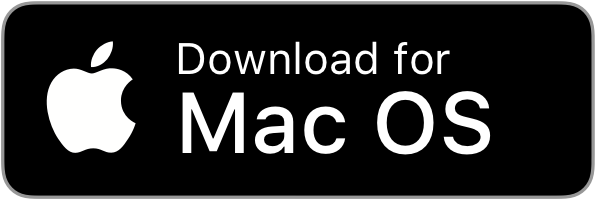
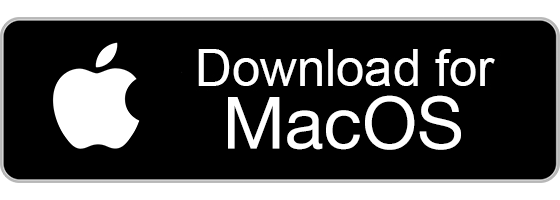
Add release urls from GH downloads

diff --git a/_includes/githubreleases.html b/_includes/githubreleases.html
@@ -7,21 +7,26 @@ $(function() {
     var apiURL = "https://api.github.com/repos/michaelmuenzer/gu-assistant/releases/latest";
 
     $.getJSON(apiURL, function(json) {
-
-        if (json.results && json.results.length) {
-
+        console.log(json)
+        if (json && json.name) {
+            var releaseName = json.name
             console.info("Release download urls loaded from Github API.");
-            console.log(json)
-            var assets = json.assets;
 
             // Set Mac download link if it is not set manually in _config.yml
             var $macLink = $(".macLink");
             if ($.trim($macLink.attr('href')).length == 0) {
-                $($macLink).attr("href", macLink.trackViewUrl);
+                //https://github.com/michaelmuenzer/gu-assistant/releases/download/v0.0.20/GU-Assistant-0.0.20.dmg
+                var downloadUrl = 'https://github.com/michaelmuenzer/gu-assistant/releases/download/v' + releaseName + '/GU-Assistant-' + releaseName + '.dmg'
+                $($macLink).attr("href", downloadUrl);
             }
 
-            console.info(assets);
-
+            // Set Windows download link if it is not set manually in _config.yml
+            var $winLink = $(".winLink");
+            if ($.trim($winLink.attr('href')).length == 0) {
+                // https://github.com/michaelmuenzer/gu-assistant/releases/download/v0.0.20/GU-Assistant-Setup-0.0.20.exe
+                var downloadUrl = 'https://github.com/michaelmuenzer/gu-assistant/releases/download/v' + releaseName + '/GU-Assistant-Setup-' + releaseName + '.exe'
+                $($winLink).attr("href", downloadUrl);
+            }
         }
     });  
 });

diff --git a/_layouts/default.html b/_layouts/default.html
@@ -42,15 +42,15 @@
                         </div>
                         <div class="downloadButtonsContainer">
                             {% if site.playstore_link %}
-                                <a class="playStoreLink" href="{{site.playstore_link}}"><img class="playStore" src="assets/playstore.png"></a>
+                                <a class="playStoreLink" href="{{site.playstore_link}}"><img class="playStore downloadBanner" src="assets/playstore.png"></a>
                             {% endif %}
                             
                             {% if site.appstore_link %}
-                                <a class="appStoreLink" href="{{site.appstore_link}}"><img class="appStore" src="assets/appstore.png"></a>
+                                <a class="appStoreLink" href="{{site.appstore_link}}"><img class="appStore downloadBanner" src="assets/appstore.png"></a>
                             {% endif %}
 
-                                <a class="macLink" href="{{site.mac_link}}"><img class="macDownload" src="assets/mac_download.png"></a>
-                                <a class="winLink" href="{{site.win_link}}"><img class="winDownload" src="assets/win_download.png"></a>
+                                <a class="macLink" href="{{site.mac_link}}"><img class="macDownload downloadBanner" src="assets/mac_download.png"></a>
+                                <a class="winLink" href="{{site.win_link}}"><img class="winDownload downloadBanner" src="assets/win_download.png"></a>
                         </div>
                     </div>
                     {% include features.html %}

diff --git a/_sass/layout.scss b/_sass/layout.scss
@@ -20,6 +20,10 @@
 	background-color: rgba($header-color, $header-transparency);
 }
 
+.downloadBanner {
+	width: 300px;
+}
+
 @media only screen and (max-width: 768px) {
 
 	.headerBackground {
